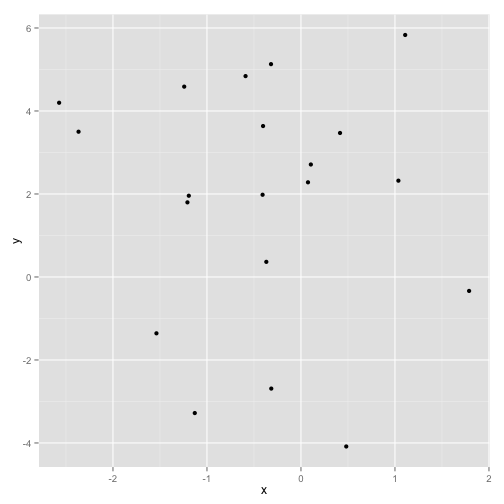
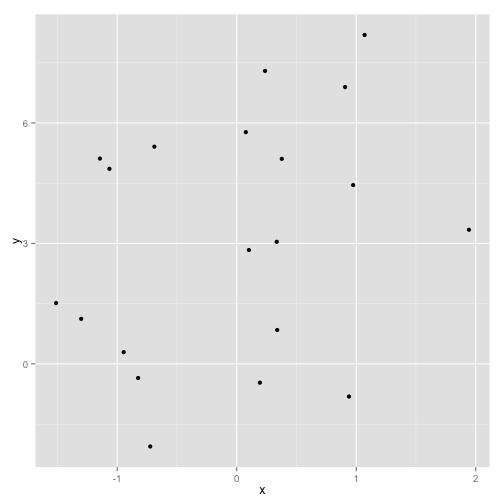
Paquetes personales

diff --git a/Pres2/Presentación 2.md b/Pres2/Presentación 2.md
@@ -199,7 +199,7 @@ mean(x) # media
 ```
 
 ```
-[1] -0.4321
+[1] -0.03538
 ```
 
 ```r
@@ -207,7 +207,7 @@ median(x) # mediana
 ```
 
 ```
-[1] -0.3859
+[1] 0.1482
 ```
 
 ```r
@@ -215,7 +215,7 @@ var(x) # varianza
 ```
 
 ```
-[1] 1.236
+[1] 0.8961
 ```
 
 ========
@@ -225,7 +225,7 @@ sd(x) # desviación estándar
 ```
 
 ```
-[1] 1.112
+[1] 0.9466
 ```
 
 ```r
@@ -233,7 +233,7 @@ cor(x, y) # Correlación
 ```
 
 ```
-[1] -0.08904
+[1] 0.296
 ```
 
 ```r
@@ -241,7 +241,7 @@ cov(x, y) # Covarianza
 ```
 
 ```
-[1] -0.2852
+[1] 0.8369
 ```
 
 Comparaciones entre vectores
